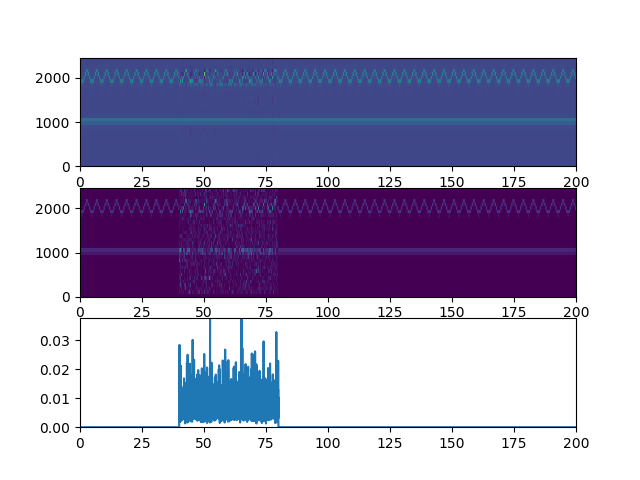
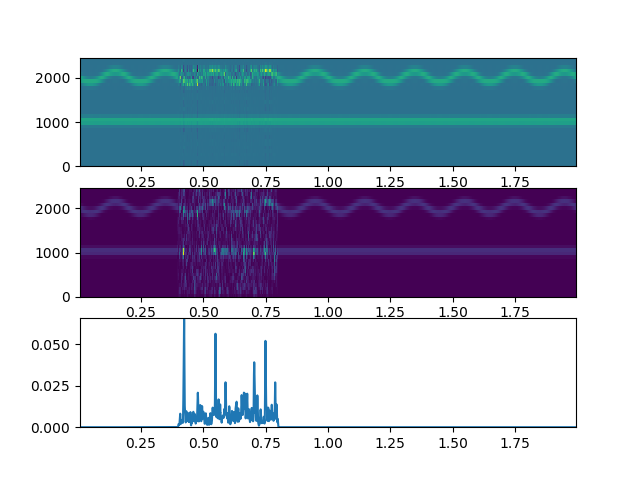
new results

diff --git a/model/model.py b/model/model.py
@@ -60,10 +60,10 @@ def make_sine(noise_type, num, window):
 def make_carrier(noise_type):
 
         fs = 5e3
-        N = 1e6
+        N = 1e4
         amp = 2 * np.sqrt(2)
         time = np.arange(N) / float(fs)
-        mod = 500*np.cos(2*np.pi*0.25*time)
+        mod = 25*np.cos(2*np.pi*5*time)
         #carrier = amp * np.sin(2*np.pi*3e3*time + mod)
         carrier = amp * np.sin(2*np.pi*2e3*time + mod) + amp*np.sin(2*np.pi*1e3*time)
         x = carrier
@@ -74,25 +74,44 @@ def make_carrier(noise_type):
         #x_n += noise
 
         # High Period of Noise for some time
-        noise_power = 0.01 * fs / 2
-        noise = np.random.normal(scale=np.sqrt(noise_power), size=time.shape)
-        n_start = int(len(time)*0.2)
-        n_end = int(len(time)*0.4)
-        noise[:n_start] *= 0
-        noise[n_end:] *= 0
-        x_n = carrier + noise
+        #noise_power = 0.01 * fs / 2
+        #noise = np.random.normal(scale=np.sqrt(noise_power), size=time.shape)
+        #n_start = int(len(time)*0.2)
+        #n_end = int(len(time)*0.4)
+        #noise[:n_start] *= 0
+        #noise[n_end:] *= 0
+        #x_n = carrier + noise
 
         # Rogue Signal for sometime
-        #noise = amp * np.sin(2*np.pi*5e2*time)
+        #noise = amp * np.sin(2*np.pi*5e2*time + mod)
         #n_start = int(len(time)*0.6)
         #n_end = int(len(time)*0.7)
         #noise[:n_start] *= 0
         #noise[n_end:] *= 0
         #x_n = carrier + noise
+        
+        # Tampering with the main carrier
+        #n_mod = 25*np.cos(2*np.pi*5*time)
+        #noise = -amp * np.sin(2*np.pi*2e3*time + mod) # Cancel
+        #noise = amp * np.sin(2*np.pi*2e3*time + mod) # Boost
+        #n_start = int(len(time)*0.4)
+        #n_end = int(len(time)*0.55)
+        #noise[:n_start] *= 0
+        #noise[n_end:] *= 0
+        #x_n = carrier + noise
+        
+        # Repeat Carrier at a very close frequency 
+        #n_mod = 25*np.cos(2*np.pi*5*time)
+        noise = 2*amp * np.sin(2*np.pi*1.9e3*time)
+        n_start = int(len(time)*0.3)
+        n_end = int(len(time)*0.4)
+        noise[:n_start] *= 0
+        noise[n_end:] *= 0
+        x_n = carrier + noise
 
 
-        f, t, Sxx = signal.spectrogram(x, fs, nperseg=63, nfft=63)
-        f_n, t_n, Sxx_n = signal.spectrogram(x_n, fs, nperseg=63, nfft=63)
+        f, t, Sxx = signal.spectrogram(x, fs, window='blackmanharris', nperseg=63, noverlap=62)
+        f_n, t_n, Sxx_n = signal.spectrogram(x_n, fs, window='blackmanharris', nperseg=63, noverlap=62)
 
         #s_n = apply_noise(noise_type, s)
 
@@ -341,11 +360,16 @@ with tf.Session() as sess:
         # x_train = data[0:train_size,:]
         # y_train = x_train
 
+        loss_rate = []
+        step_rate = []
+
         # Standard Denoising using the uncorrupted signals in the loss functions
         for i in range(20000):
-                if i % 200 == 0:
+                if i % 20 == 0:
                         p_train_val = sess.run([loss], feed_dict={x: x_train, y: y_train})
                         print('step: %d, loss: %.8f' % (i, p_train_val[0]))
+                        step_rate.append(i)
+                        loss_rate.append(p_train_val[0])
                 train_step.run(feed_dict={x: x_train, y: y_train})
 
 
@@ -386,6 +410,17 @@ with tf.Session() as sess:
         ax3 = fig.add_subplot(313)
         ax3.plot(t, l2norm)
         ax3.margins(x=0,y=0)
-
+        
         fig.savefig("noise_1.png")
         show()
+        
+        step_rate = np.array(step_rate)
+        loss_rate = np.array(loss_rate)
+        
+        plt.plot(step_rate, loss_rate)
+        plt.ylim((0, 0.00002))
+        plt.xlabel("Time")
+        plt.ylabel("Loss")
+        plt.margins(x=0,y=0)
+        plt.savefig("learn_rate.png")
+        plt.show()
